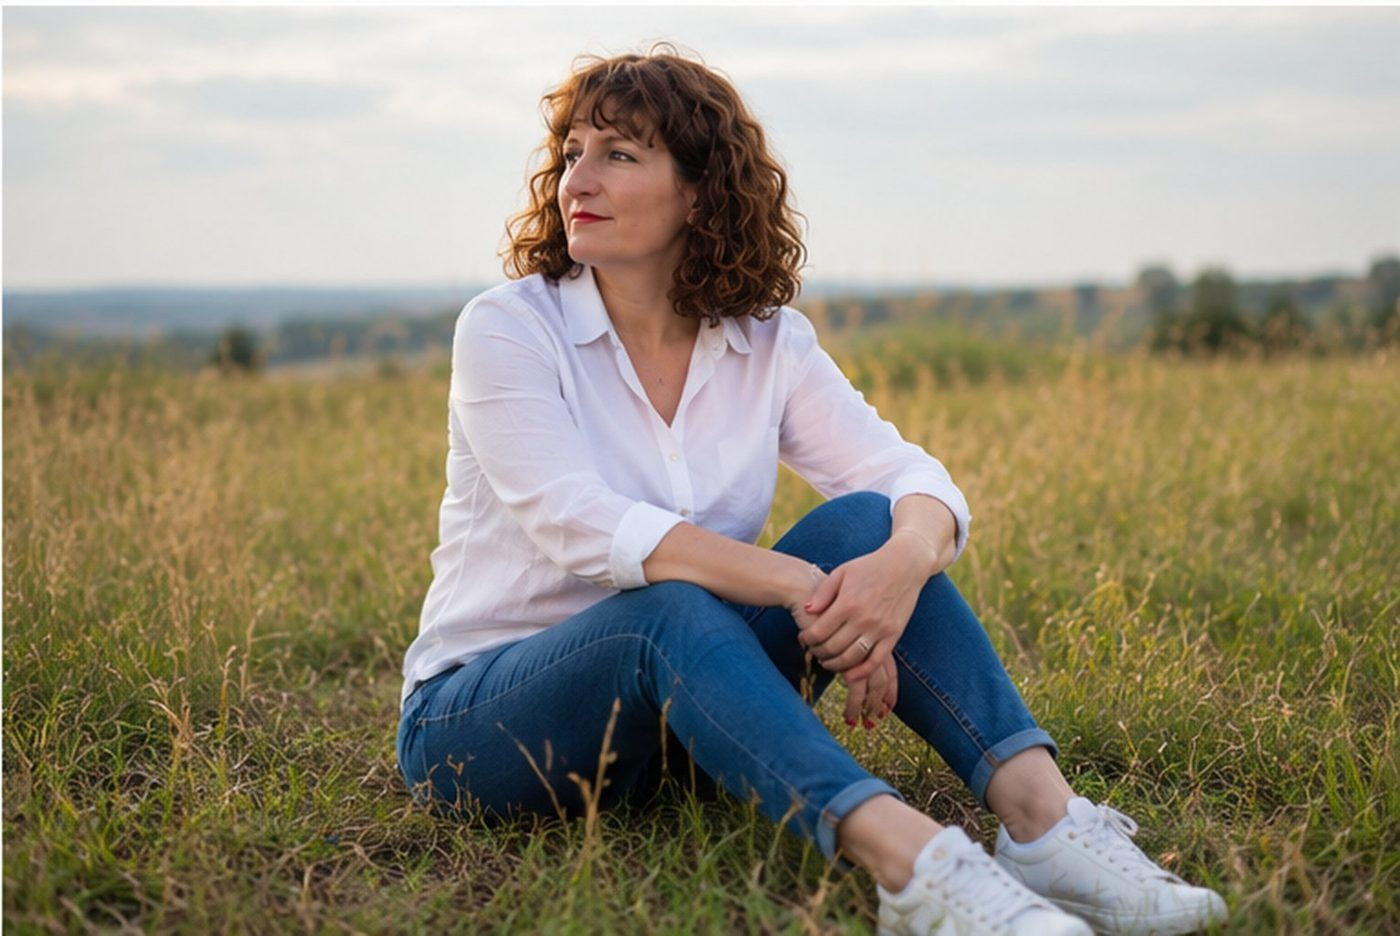
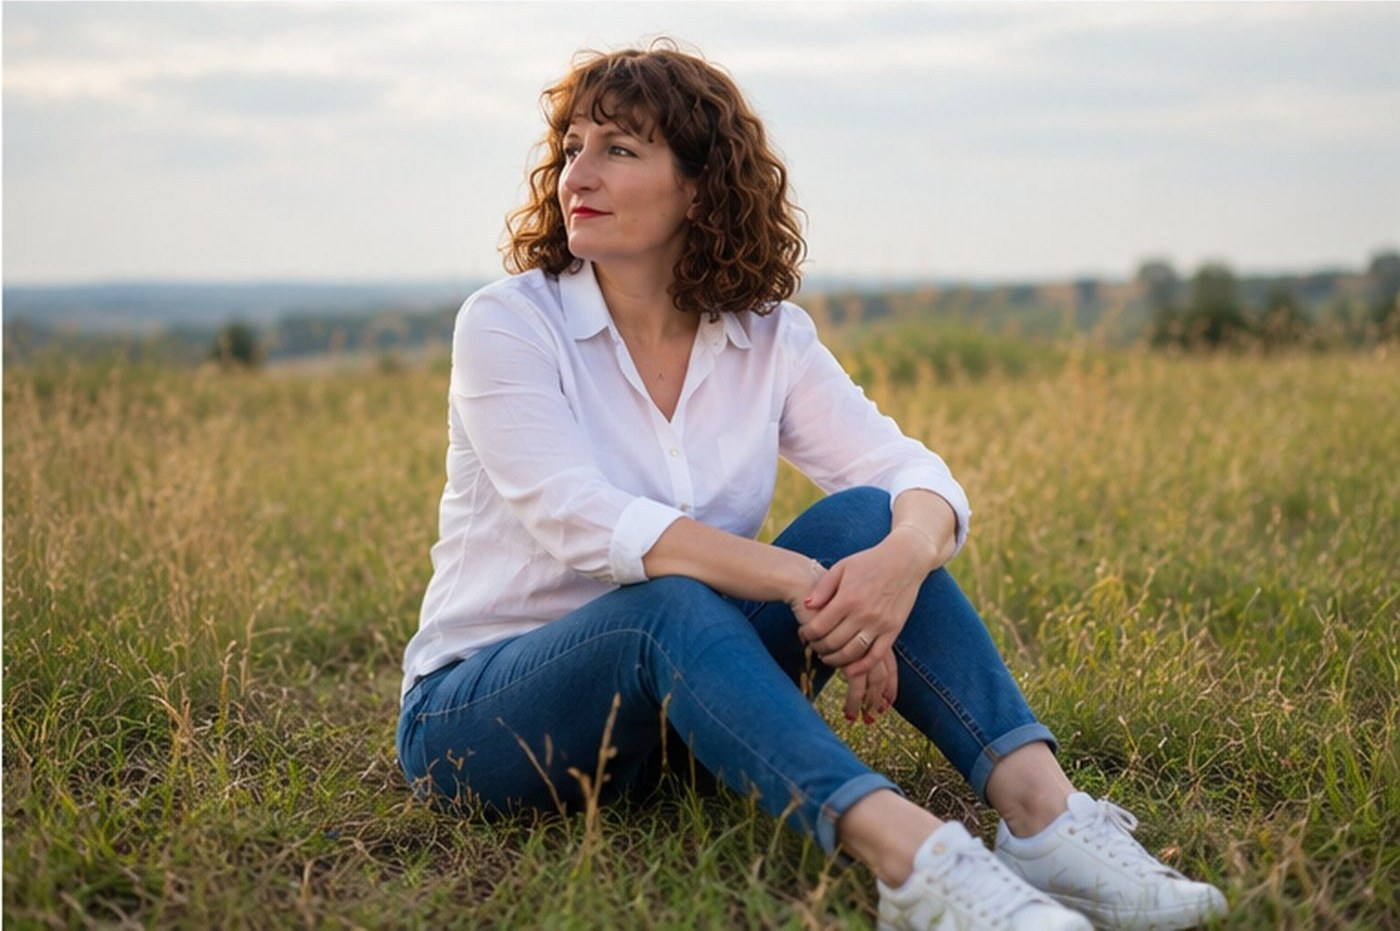
Add files via upload

diff --git a/daniela-hamberger/src/styles/fonts.css b/daniela-hamberger/src/styles/fonts.css
@@ -88,3 +88,12 @@
   src: url(/fonts/manrope-xn7gYHE41ni1AdIRggexSg.woff2) format('woff2');
   unicode-range: U+0000-00FF, U+0131, U+0152-0153, U+02BB-02BC, U+02C6, U+02DA, U+02DC, U+0304, U+0308, U+0329, U+2000-206F, U+20AC, U+2122, U+2191, U+2193, U+2212, U+2215, U+FEFF, U+FFFD;
 }
+
+/* Schreibschrift für besondere Leitsätze (Dancing Script, SIL OFL — kommerziell frei) */
+@font-face {
+  font-family: 'Dancing Script';
+  font-style: normal;
+  font-weight: 500 600;
+  font-display: swap;
+  src: url(/fonts/dancingscript-500.woff2) format('woff2');
+}

diff --git a/daniela-hamberger/src/styles/global.css b/daniela-hamberger/src/styles/global.css
@@ -44,6 +44,7 @@
 
   /* === Schrift (v1) === */
   --font-display: 'Instrument Serif', 'Cormorant Garamond', Georgia, serif;
+  --font-script: 'Dancing Script', 'Instrument Serif', cursive;
   --font-body: 'Manrope', system-ui, -apple-system, 'Segoe UI', sans-serif;
 
   /* === Skala (fluid) === */
@@ -175,6 +176,12 @@ ul, ol { color: var(--color-ink-soft); line-height: 1.65; }
   transform: translateY(-1px);
 }
 .script { font-family: var(--font-display); font-style: italic; color: var(--color-sage-deep); }
+.script-akzent { font-family: var(--font-script); font-weight: 600; color: var(--color-clay-deep); font-style: normal; line-height: 1.2; }
+
+/* Relaunch-Zusatz: goldene Akzentwörter & Schreibschrift-Leitsätze (global, leicht entfernbar) */
+.gold-akzent { color: var(--color-clay-deep); font-style: italic; font-family: var(--font-display); font-weight: 500; }
+.leitsatz-script { text-align: center; font-family: var(--font-script); font-weight: 600; color: var(--color-clay-deep); font-size: 1.7rem; line-height: 1.3; margin: 0.6rem auto 0.3rem; }
+.btn-center { text-align: center; margin-top: 1.5rem; }
 
 /* ============================================================ LAYOUT ============================================================ */
 .container { width: 100%; max-width: var(--container-max); margin-inline: auto; padding-inline: clamp(1.25rem, 4vw, 2.5rem); }

diff --git a/daniela-hamberger/src/data/site.ts b/daniela-hamberger/src/data/site.ts
@@ -409,7 +409,9 @@ export const BOOKING_TEAM = [
 
 // Konkrete Workshop-Themen für Teams & Organisationen
 export const WORKSHOP_TOPICS = [
-  { title: 'Stressresilienz im Arbeitsalltag', text: 'Wie ihr im Alltag Stressmuster früher erkennt und gemeinsam stabiler werdet.' },
+  { title: 'Stressresilienz im Arbeitsalltag', text: 'Wie ihr im Alltag Stressmuster früher erkennt und gemeinsam stabiler werdet — mit Methoden aus Resilienztraining und Stressmanagement.' },
+  { title: 'Führungskräfte begleiten', text: 'Begleitung für Führungskräfte: Klarheit in der Rolle, gesunde Selbstführung und ein Führungsstil, der wertschätzend und tragfähig zugleich ist.' },
+  { title: 'Burnout-Prävention', text: 'Frühe Warnsignale erkennen, Belastung gesund regulieren und Routinen entwickeln, die langfristig stabil halten.' },
   { title: 'Bewusste Kommunikation', text: 'Was Worte bewirken — und wie ihr klarer, wertschätzender und ehrlicher miteinander sprecht.' },
   { title: 'Wertschätzung im Team', text: 'Wie Wertschätzung im Alltag spürbar wird, nicht nur als Wort, sondern als Haltung.' },
   { title: 'Besseres Miteinander', text: 'Räume für ehrlichen Austausch, Verbindung und ein menschlicheres Miteinander.' },

diff --git a/daniela-hamberger/RELAUNCH-AENDERUNGEN.md b/daniela-hamberger/RELAUNCH-AENDERUNGEN.md
@@ -87,3 +87,62 @@ Build erneut erfolgreich getestet (25 Seiten, keine Fehler).
 ## Separate Dokumente (im Ordner ../ ausgeliefert)
 - „Gefunden werden — Google & LinkedIn" (Anleitung)
 - „Social Media & Markenauftritt" (aktualisiert)
+
+---
+
+# Dritte Runde — Gestaltung & Bilder (7. Juni 2026)
+
+Build erneut fehlerfrei (25 Seiten).
+
+## Bilder (Startseite)
+- Hero-Bild (daniela-hero-portrait.jpg): weiße Ränder oben/unten entfernt, unten auf Handhöhe gekürzt (unnatürliche KI-Finger nicht mehr sichtbar).
+- Teaser-Bild „Ich bin Daniela" (daniela-wiese-bluse.jpg): oberer weißer Rand entfernt.
+
+## Neues Ornament-System (Komponente src/components/Zier.astro)
+- Ersetzt das frühere „Apfel"-Zeichen durch ein feines goldenes Linien-Ornament.
+- Drei Varianten: blatt, herz, ranke (SVG, in Markenfarbe).
+- Zielgruppengerecht eingesetzt:
+  - 1:1 / Frauen: Herz erlaubt, wärmer.
+  - Teams / Workshops: nur Blatt/Ranke, KEIN Herz, sachlich.
+  - Startseite/Impulse: Blatt/Ranke, kein Herz (gemischtes Publikum).
+
+## Schreibschrift (Dancing Script, SIL OFL — kommerziell frei)
+- Selbst gehostet: public/fonts/dancingscript-500.woff2, @font-face in fonts.css.
+- CSS-Variable --font-script, Klassen .leitsatz-script / .leitsatz-script-light / .script-akzent.
+- Sparsam eingesetzt: „Bewusst. Klar. Verbunden." (Startseite), „Für ein Leben, das sich echt und stimmig anfühlt." (1:1-Abschluss).
+
+## Goldene Akzentwörter (.gold-akzent, global)
+- Einzelne Schlüsselwörter (echt, stimmig, Fokus Schöner Leben) im Clay-/Goldton.
+
+## Kontaktformular zielgruppengerecht
+- 1:1-Formular: Herz-Ornament (Frauen).
+- Nachricht-Formular: Blatt-Ornament.
+- Teams-Formular: bewusst ohne Ornament (sachlich), Formular bleibt klar/funktional.
+
+## Reversibilität
+- Alle Stil-Elemente sind als eigene Klassen/Komponente gekapselt (.gold-akzent, .leitsatz-script, Zier.astro). Zum Entfernen genügt es, die <Zier />-Aufrufe bzw. die Klassen zurückzunehmen.
+
+---
+
+# Favicon (7. Juni 2026)
+- Neues Favicon: vereinfachte Lotusblüte (gold auf creme), angelehnt ans Logo.
+- Ersetzt das bisherige „d"-Zeichen.
+- Dateien: public/favicon.svg (scharf in jeder Größe), public/favicon.ico (ältere Browser), public/apple-touch-icon.png (180×180, Handy-Homescreen).
+- Im Head verlinkt (SEO.astro): svg + ico-Fallback + apple-touch-icon.
+
+---
+
+# SEO-Erweiterung: Coaching-Schwerpunkte (7. Juni 2026)
+
+## Unsichtbar (Schema-Markup, SEO.astro)
+- knowsAbout & serviceType erweitert: Lifecoaching, Führungskräfte-Coaching, Führungskräfteentwicklung, Resilienz, Resilienztraining, Stressmanagement, Burnout-Prävention/-Prophylaxe.
+
+## Sichtbar (gekonnt eingewoben)
+- Startseite (Begleitansatz): Schwerpunkte Resilienz, Stressmanagement, Burnout-Prävention ergänzt.
+- Teams-Seite: Absatz zur gezielten Begleitung von Führungskräften (Rolle, Selbstführung, Führungsstil) + Schwerpunkte.
+- Workshop-Themen: „Führungskräfte begleiten" und „Burnout-Prävention" neu; Stressresilienz-Thema um Stressmanagement/Resilienztraining ergänzt.
+- Meta-Description der Startseite um Führungskräfte + Schwerpunkte erweitert.
+
+## Bewusst NICHT verwendet
+- „Lifecoach" nur im SEO-Hintergrund (nicht sichtbar prominent), da der Begriff die seriöse Positionierung schwächen könnte.
+- Keine „Experten/Spezialisten"-Titel — stattdessen „Begleitung mit Schwerpunkt …" (seriöser und belastbar).